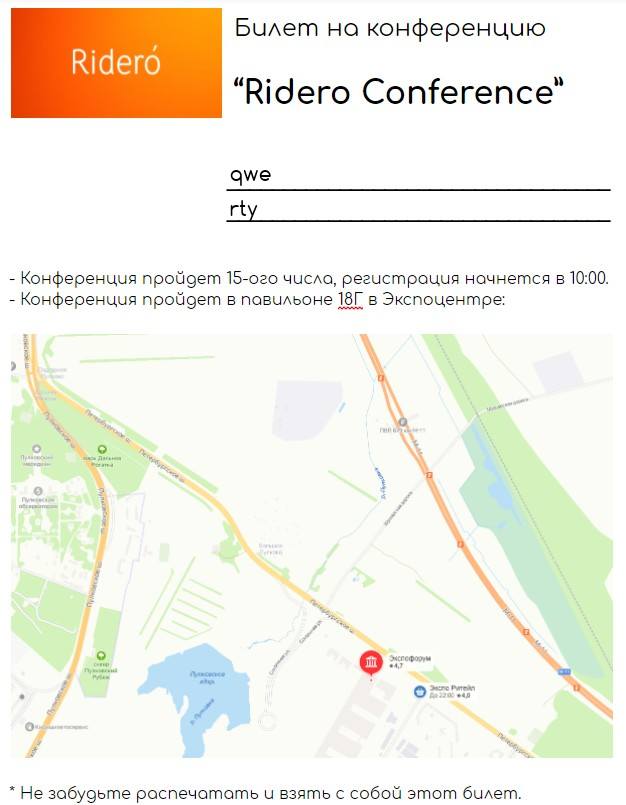
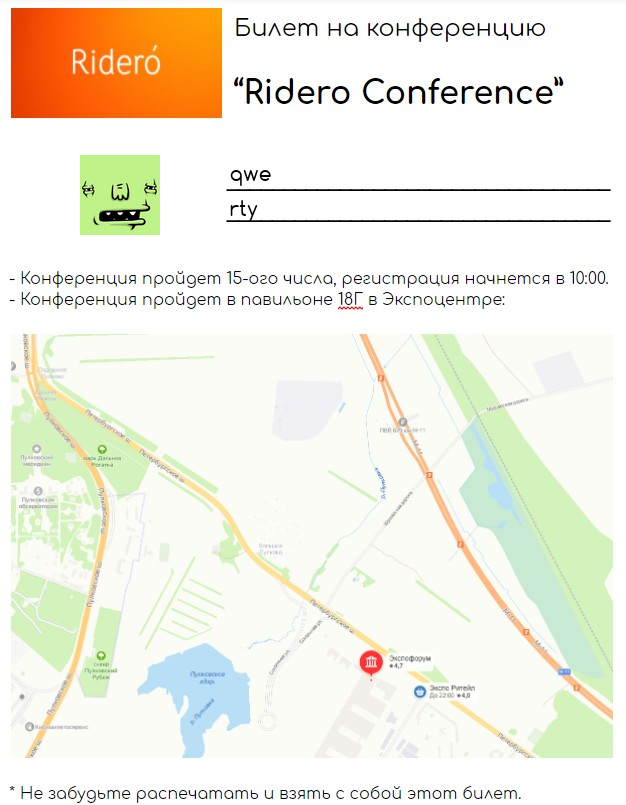
Аналогов сайта генерации аватарок не нашел. Вставил пока одну аватарку, сохранил ее в file и с этой аватаркой сохранил ticket_example.png для тестов. Добавил TODO, чтобы не забыть найти сайт генерации аватарок. Написал тест на создание билета.

Changed region(s): [[0.1214, 0.1863, 0.2732, 0.3106]]

diff --git a/tests.py b/tests.py
@@ -1,12 +1,11 @@
 from copy import deepcopy
 from unittest import TestCase
 from unittest.mock import patch, Mock, ANY
-
 from pony.orm import db_session, rollback
 from vk_api.bot_longpoll import VkBotMessageEvent, VkBotEvent
-
 import settings
 from bot import Bot
+from generate_ticket import generate_ticket
 
 
 # создаем декоратор для тестирования функций после добавления бд. Он будет открывать транзакцию на тех функциях где
@@ -20,6 +19,7 @@ def isolate_db(test_func):
             test_func(*args, **kwargs)
             # и откатываем транзакцию
             rollback()
+
     return wrapper
 
 
@@ -141,6 +141,26 @@ class Test1(TestCase):
             args, kwargs = call
             real_outputs.append(kwargs['message'])
         assert real_outputs == self.EXPECTED_OUTPUTS
+
+    def test_image_generation(self):
+        # нужно замокать запрос на сайт генерации аватарок. avatar_mock = Mock() вызовется когда применяться скобки
+        # requests.get"""(url=f'https://api.adorable.io/avatars/{AVATAR_SIZE}/{email}')""" а затем вызовется атрибут
+        # content - BytesIO(response."""content"""). Для этого нам нужно сохранить наш аватар из примера и открыть его
+        with open('files/rty.png', 'rb') as avatar_file:
+            avatar_mock = Mock()
+            avatar_mock.content = avatar_file.read()
+        # TODO чтобы тест работал успешно нужно с сайта генерации аватарок сохранить пример аватара в нужном размере
+        #  в формате png, jpeg и т.д., который мы вставляем в билет
+
+        with patch('requests.get', return_value=avatar_mock):
+            ticket_file = generate_ticket('qwe', 'rty')
+
+        # берем наш ticket_file и сравниваем с уже существующим изображением. Открываем это изображение в байтах
+        with open('files/ticket_example.png', 'rb') as expected_file:
+            expected_bytes = expected_file.read()
+
+        assert ticket_file.read() == expected_bytes
+
 
     # # Этот тест работал до того, как мы в код добавили работу со сценариями, но сейчас этот тест не работает,
     # т.к. в on_even у нас используется контекст

diff --git a/generate_ticket.py b/generate_ticket.py
@@ -10,7 +10,7 @@ BLACK = (0, 0, 0, 255)
 NAME_OFFSET = (230, 165)
 EMAIL_OFFSET = (230, 200)
 AVATAR_SIZE = 100
-AVATAR_OFFSET = (100, 200)
+AVATAR_OFFSET = (80, 155)
 
 
 def generate_ticket(name, email):
@@ -22,10 +22,13 @@ def generate_ticket(name, email):
         draw.text(EMAIL_OFFSET, email, font=font, fill=BLACK)
 
         try:
-            response = requests.get(url=f'https://api.adorable.io/avatars/{AVATAR_SIZE}/{email}')
+            response = requests.get(url=f'https://bucket.roach.gg/avatars/default/44.png')
             # передаем на вход файловому дискриптору IO (на подобие работы с фалами .open/.write и т.д.) байты
             # (.content),чтобы потом работать с ним, как с обычным файлом. Позволяет записывать данные в память и не
-            # хранить их нигде.
+            # хранить их нигде. https://api.adorable.io/avatars/{AVATAR_SIZE}/{email}
+            # TODO Чтобы заработало нужно найти ресурс генерации аваторок по почте с сохранением картини в формате png,
+            #  jpeg и т.д. api.adorable.io больше не работает. Либо переписать код, чтобы генерация была через
+            #  какую-нибудь библиотеку
             avatar_file_like = BytesIO(response.content)
             avatar = Image.open(avatar_file_like)
 
